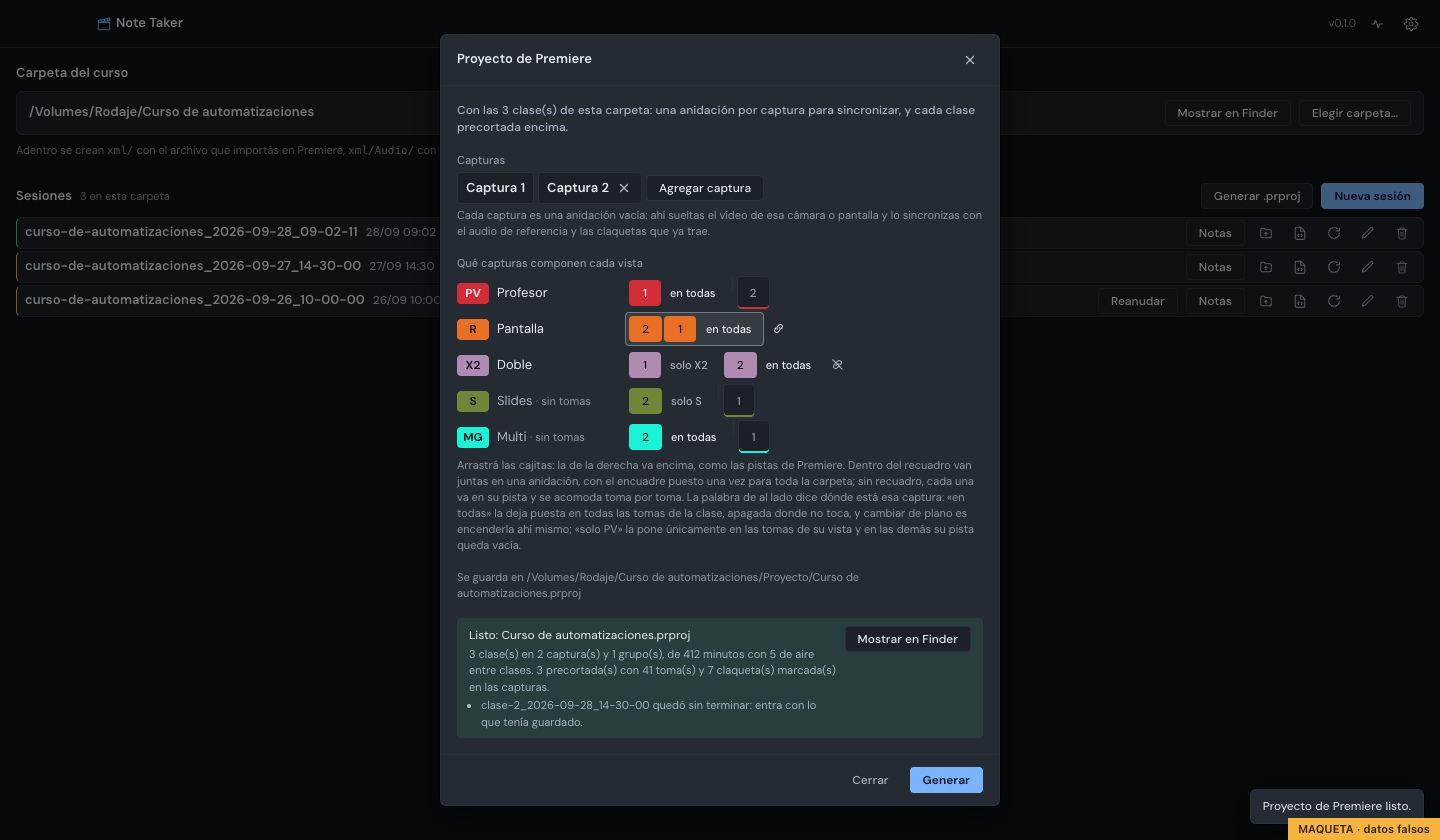
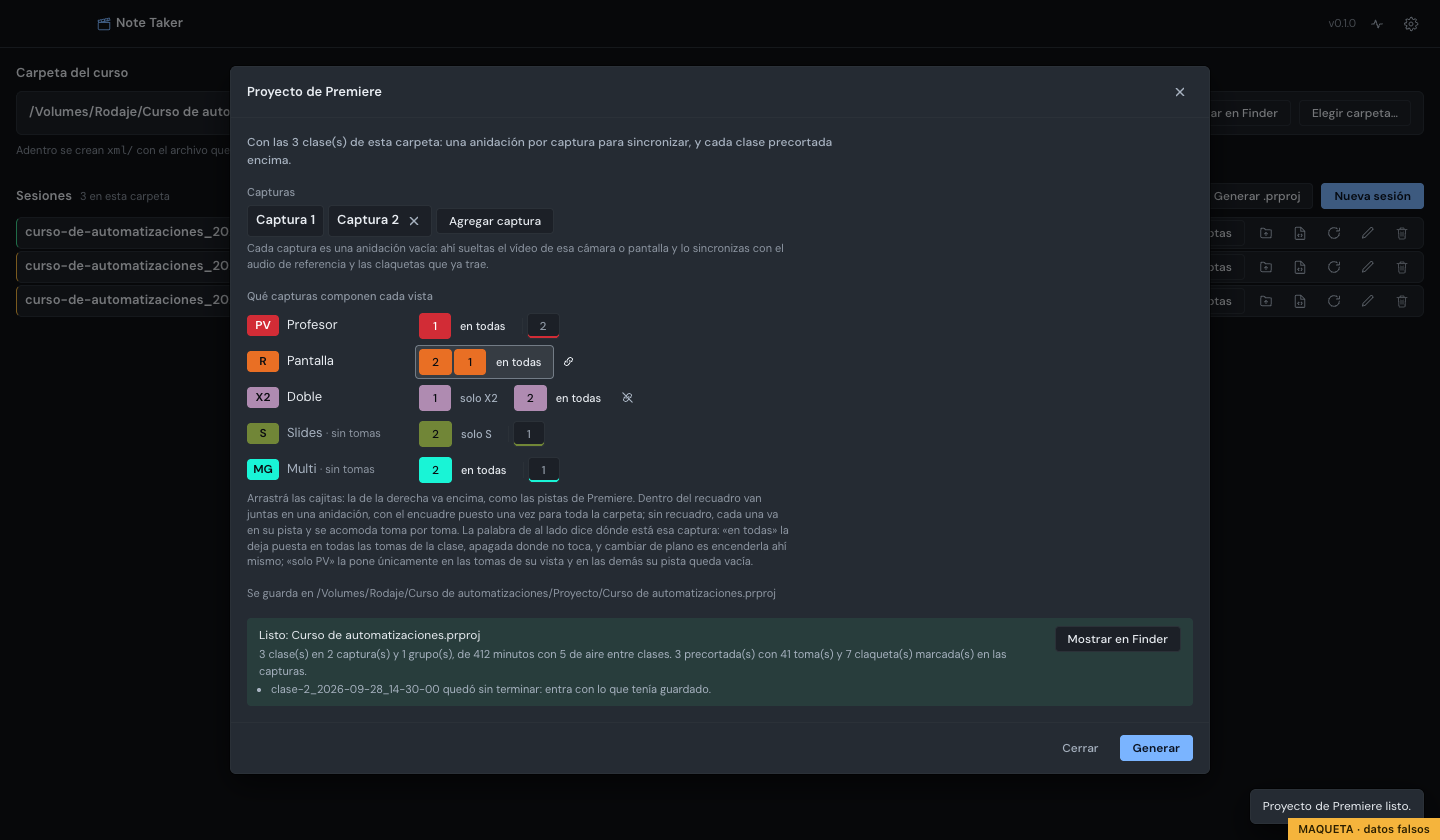
El menú del .prproj cabe con las seis capturas
Con seis capturas, la fila de una vista medía más que el panel y el panel
más que la ventana: iba centrado en un telón fixed, así que crecía hacia
los dos lados y el título y las siglas quedaban detrás del borde de la
pantalla, con una barra de desplazamiento horizontal como único rastro.

El menú pasa al panel ancho —el del visor de la foto— y ahí el peor caso
(las seis capturas en una vista) entra en un solo renglón a 900 px, que
es la ventana más chica que la app deja abrir. Los párrafos no crecen con
el panel: se quedan en la medida de lectura. Y si alguna vez no cupiera,
las cajitas y la pila envuelven en vez de empujar el panel.

medir-botones mide ahora cada panel: su contenido contra su caja y su
caja contra la ventana. El desborde del documento no se enteraba de
esto, porque un telón fixed no le da scroll a la página.

Maqueta: escenario `prproj-lleno` con las seis capturas, auditado y
capturado a 900, 1180 y 1440.

diff --git a/tools/medir-botones.js b/tools/medir-botones.js
@@ -11,7 +11,7 @@
  *   node tools/medir-botones.js
  *   node tools/medir-botones.js --escenario en-vivo --ancho 900
  *
- * Dos precisiones que sin ellas el número miente:
+ * Tres precisiones que sin ellas el número miente:
  *
  *   · **`scrollWidth` NO sirve de criterio.** Los botones son `inline-flex`
  *     con `justify-content: center`, así que el texto que no entra se sale por
@@ -19,6 +19,11 @@
  *     es `max-content` contra el ancho real, y el `max-content` no se estima:
  *     se clona el botón como hermano suyo —así los selectores por descendencia
  *     siguen aplicando— y se lo mide.
+ *
+ *   · **Un panel que no cabe no deja rastro en la página.** Va centrado en un
+ *     telón `fixed`: cuando su contenido mide más que la ventana, el panel
+ *     crece hacia los dos lados y lo que sobra queda detrás del borde de la
+ *     pantalla, sin scroll que lo alcance. Se mide panel por panel.
  *
  *   · **Lo que recorta con ellipsis NO chorrea.** Un nombre largo con
  *     `text-overflow: ellipsis` pide más de lo que tiene y eso está bien: es
@@ -40,7 +45,7 @@ function arg(nombre, def) {
 const ESCENARIOS = arg('escenario', null) ? [arg('escenario')] : [
     'sin-carpeta', 'sesiones', 'preparar', 'preparar-sin-audio', 'sin-whisper',
     'preparar-microfono', 'preparar-zoom-falso', 'sin-zoom',
-    'en-vivo', 'toma-abierta', 'palmada-vencida', 'terminada', 'notas-de-antes', 'foto', 'prproj', 'prproj-listo', 'ajustes', 'diagnostico'
+    'en-vivo', 'toma-abierta', 'palmada-vencida', 'terminada', 'notas-de-antes', 'foto', 'prproj', 'prproj-lleno', 'prproj-listo', 'ajustes', 'diagnostico'
 ];
 const ANCHOS = arg('ancho', null) ? [Number(arg('ancho'))] : [900, 1180, 1440];
 const ALTO = Number(arg('alto', 840));
@@ -115,10 +120,33 @@ async function medir(pagina) {
             }
         }
 
+        /* ── Paneles que no caben en la ventana ───────────────────────── */
+        // Un panel va centrado dentro de un telón `fixed`, así que cuando su
+        // contenido mide más que la ventana no aparece scroll en la página:
+        // el panel crece hacia los dos lados y lo que sobra queda detrás del
+        // borde de la pantalla, sin forma de alcanzarlo. Por eso se mide
+        // aparte de `desbordeH`, que de eso no se enteraba.
+        const apretados = [];
+        for (const panel of document.querySelectorAll('.panel')) {
+            if (!visible(panel)) continue;
+            const r = panel.getBoundingClientRect();
+            const corrido = panel.scrollWidth > panel.clientWidth + MARGEN;
+            const afuera = r.left < -MARGEN || r.right > window.innerWidth + MARGEN;
+            if (!corrido && !afuera) continue;
+            const cabeza = panel.querySelector('.panel-cabeza');
+            apretados.push({
+                titulo: ((cabeza && cabeza.textContent) || panel.className).trim().slice(0, 30),
+                tiene: Math.round(panel.clientWidth),
+                necesita: Math.round(panel.scrollWidth),
+                afuera
+            });
+        }
+
         return {
             botones: botones.length,
             desbordados,
             solapes,
+            apretados,
             // El documento no puede tener scroll horizontal: si lo tiene, hay
             // algo más ancho que la ventana y la app se lee corrida.
             desbordeH: document.documentElement.scrollWidth > window.innerWidth
@@ -148,17 +176,22 @@ async function main() {
                 await pagina.close();
                 mirados += m.botones;
 
-                const mal = m.desbordados.length || m.solapes.length || m.desbordeH;
+                const mal = m.desbordados.length || m.solapes.length || m.apretados.length || m.desbordeH;
                 if (mal) fallos++;
                 console.log(`${mal ? '✗' : '·'} ${escenario} @ ${ancho} — ${m.botones} cajas` +
                     `${m.desbordados.length ? `, ${m.desbordados.length} con el texto afuera` : ''}` +
                     `${m.solapes.length ? `, ${m.solapes.length} solapes` : ''}` +
+                    `${m.apretados.length ? `, ${m.apretados.length} panel(es) sin caber` : ''}` +
                     `${m.desbordeH ? ', la página se sale de ancho' : ''}`);
                 for (const d of m.desbordados.slice(0, 8)) {
                     console.log(`    «${d.texto}» tiene ${d.tiene} px y necesita ${d.necesita}`);
                 }
                 for (const s of m.solapes.slice(0, 8)) {
                     console.log(`    «${s.a}» encima de «${s.b}»`);
+                }
+                for (const p of m.apretados.slice(0, 8)) {
+                    console.log(`    el panel «${p.titulo}» tiene ${p.tiene} px y necesita ${p.necesita}`
+                        + `${p.afuera ? ', y se sale de la ventana' : ''}`);
                 }
             }
         }

diff --git a/src/css/style.css b/src/css/style.css
@@ -1728,10 +1728,20 @@ kbd {
   border-top: 1px solid var(--hairline);
 }
 
-/* El visor de la foto del OUT: lo que hay que ver es la imagen, así que el
-   panel crece hasta donde la ventana deja. */
+/* Dos paneles crecen hasta donde la ventana deja: el visor de la foto, donde lo
+   que hay que ver es la imagen, y el menú del .prproj, donde una vista de seis
+   capturas es una fila larga.
+
+   El texto no crece con ellos. Una línea de 980 px son unos 160 caracteres y a
+   esa medida el ojo pierde el renglón al volver; los párrafos se quedan en la
+   medida de lectura y lo ancho lo aprovechan las filas. */
 .panel.es-ancho {
   width: min(980px, 100%);
+}
+
+.panel.es-ancho .panel-cuerpo > p,
+.panel.es-ancho .campo > p {
+  max-width: 74ch;
 }
 
 /* El menú de «Generar .prproj». Las capturas son pastillas en fila con
@@ -1798,9 +1808,20 @@ kbd {
   color: var(--text-secondary);
 }
 
+/* Las cajitas de una vista envuelven en vez de empujar el panel.
+
+   Con seis capturas encendidas la fila mide más que la ventana, y sin esto el
+   panel entero crecía detrás del borde de la pantalla: quedaba una barra de
+   desplazamiento horizontal y las siglas de las vistas sin poder verse. Al
+   envolver, lo que crece es el alto, que es por donde el panel ya sabe
+   desplazarse. */
 .prproj-elige {
-  display: inline-flex;
-  gap: var(--sp-1);
+  display: flex;
+  flex-wrap: wrap;
+  align-items: center;
+  gap: var(--sp-2) var(--sp-1);
+  flex: 1 1 260px;
+  min-width: 0;
 }
 
 .prproj-elige .btn-vista {
@@ -1815,9 +1836,11 @@ kbd {
    1.4.11) y no la hairline. El hueco de 3 px se reserva siempre, encendido o
    no, para que al anidar no se muevan las cajitas de al lado. */
 .prproj-pila {
-  display: inline-flex;
+  display: flex;
+  flex-wrap: wrap;
   align-items: center;
   gap: var(--sp-1);
+  min-width: 0;
   padding: 3px;
   border: 1px solid transparent;
   border-radius: var(--radius-sm);

diff --git a/tools/maqueta/doble.js b/tools/maqueta/doble.js
@@ -191,7 +191,19 @@ window.nt = {
     // tomas y la otra solo en las suyas, que son las dos palabras del menú.
     prprojConfig: async carpeta => ({
         ok: true,
-        config: {
+        // Con `prproj-lleno`, el peor caso del menú: las seis capturas, y una
+        // vista que usa todas. Es lo que hay que mirar para saber si el menú
+        // sigue cabiendo en la ventana más chica que la app deja abrir.
+        config: hay('prproj-lleno') ? {
+            capturas: 6,
+            vistas: {
+                PV: { capturas: [1, 2, 3, 4, 5, 6], unidas: false, siempre: [1, 2, 3, 4, 5, 6] },
+                R: { capturas: [2, 1], unidas: true, siempre: [2, 1] },
+                S: { capturas: [1, 2, 3], unidas: true, siempre: [1, 2, 3] },
+                MG: { capturas: [1, 2], unidas: false, siempre: [1, 2] },
+                X2: { capturas: [1, 2], unidas: true, siempre: [1, 2] }
+            }
+        } : {
             capturas: 2,
             vistas: {
                 PV: { capturas: [1], unidas: false, siempre: [1] },
@@ -366,7 +378,7 @@ async function aplicar() {
     }
 
     // El menú de «Generar .prproj», y con `prproj-listo` ya generado.
-    if (hay('prproj') || hay('prproj-listo')) {
+    if (hay('prproj') || hay('prproj-listo') || hay('prproj-lleno')) {
         await app.irASesiones();
         document.querySelector('#btn-prproj').click();
         await espera(80);

diff --git a/tools/auditar.js b/tools/auditar.js
@@ -45,7 +45,7 @@ const ALTO = Number(arg('alto', 840));
 /** Los escenarios que se auditan, y a qué anchos. */
 const ESCENARIOS = arg('escenario', null)
     ? [arg('escenario')]
-    : ['sesiones', 'preparar', 'en-vivo', 'toma-abierta', 'palmada', 'palmada-vencida', 'terminada', 'notas-de-antes', 'foto', 'prproj', 'prproj-listo', 'diagnostico'];
+    : ['sesiones', 'preparar', 'en-vivo', 'toma-abierta', 'palmada', 'palmada-vencida', 'terminada', 'notas-de-antes', 'foto', 'prproj', 'prproj-lleno', 'prproj-listo', 'diagnostico'];
 const ANCHOS = arg('ancho', null) ? [Number(arg('ancho'))] : [900, 1180, 1440];
 
 /**

diff --git a/tools/capturar.js b/tools/capturar.js
@@ -34,7 +34,7 @@ const ESCENARIOS = arg('escenario', null) ? [arg('escenario')] : [
     'preparar-microfono', 'preparar-zoom-falso', 'sin-zoom',
     'en-vivo', 'en-vivo,desplegada', 'en-vivo,claqueta-abierta',
     'toma-abierta', 'releyendo', 'sin-audio', 'terminada', 'notas-de-antes', 'foto',
-    'palmada', 'palmada-vencida', 'prproj', 'prproj-listo',
+    'palmada', 'palmada-vencida', 'prproj', 'prproj-lleno', 'prproj-listo',
     'ajustes', 'diagnostico', 'faltan-modelos', 'iconos'
 ];
 const ANCHOS = arg('ancho', null) ? [Number(arg('ancho'))] : [900, 1180, 1440];

diff --git a/src/index.html b/src/index.html
@@ -304,7 +304,7 @@
      Qué capturas hay y qué capturas componen cada vista. Lo que se elige acá
      queda guardado en la carpeta (`prproj-carpeta.leerConfig`). -->
 <div class="telon" id="telon-prproj">
-  <div class="panel">
+  <div class="panel es-ancho">
     <div class="panel-cabeza">
       <span class="v1">Proyecto de Premiere</span>
       <span class="crece"></span>

diff --git a/README.md b/README.md
@@ -750,6 +750,14 @@ abre un menú para decir qué capturas hay y qué capturas componen cada vista.
   Estuvo dibujado —la pista vista de lejos, un clip largo contra uno corto— y a
   15 px eran dos rectángulos que había que apretar para saber qué hacían. Los
   estados de esta app van en palabras, y este no era la excepción.
+- **El menú es ancho a propósito.** Una vista que use las seis capturas es una
+  fila de seis cajitas con su palabra, y eso mide más que un panel normal: el
+  menú usa el panel ancho —el mismo del visor de la foto— y en la ventana más
+  chica que la app deja abrir, 900 px, el peor caso entra en un solo renglón. Si
+  aun así no cupiera, las cajitas envuelven; lo que no hacen es empujar el panel
+  detrás del borde de la ventana, que es lo que pasaba antes: quedaba una barra
+  de desplazamiento horizontal y las siglas de las vistas fuera de la pantalla.
+  Los párrafos no crecen con el panel: se quedan en la medida de lectura.
 - **Una secuencia precortada por clase**: las tomas que van al XML una detrás de
   otra, con los bordes ajustados a la onda. Hay un track de vídeo por cada
   captura o grupo que usan las vistas, y en cada toma solo está encendido el de
@@ -951,7 +959,7 @@ exactamente la diferencia con el timecode de al lado.
 ```bash
 node tools/contrastes.js       # la tabla WCAG de los tokens
 node tools/auditar.js          # contraste real sobre el DOM, filas, cromo, blancos de clic
-node tools/medir-botones.js    # texto fuera de su caja, solapes, desbordes
+node tools/medir-botones.js    # texto fuera de su caja, solapes, desbordes, paneles que no caben
 node tools/capturar.js         # las capturas de docs/capturas/
 node tools/maqueta/abrir.js    # la interfaz de verdad, con datos falsos
 ```
